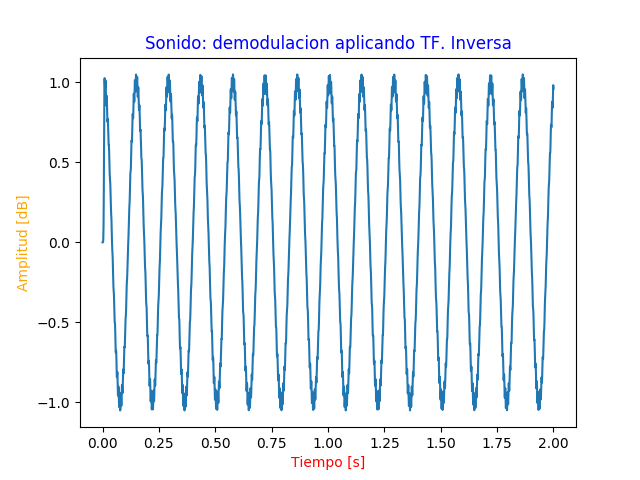
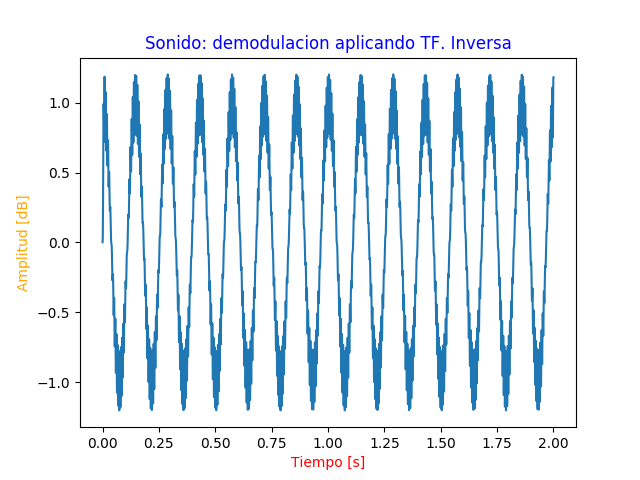
Revert "adding Fm modulation"
This reverts commit aaa57985e61d86c70881ebb56c394ea85a20d3e4.

diff --git a/Models/modulation.py b/Models/modulation.py
@@ -38,10 +38,21 @@ class Modulation:
         modulation.function2 = np.cos(2*np.pi*fc*modulation.time)
         modulation.function3 = modulation.function1 * modulation.function2
 
-        self.demodulatorAMCos(modulation)
-
         graphic.generateGraphics4(modulation.function1, modulation.function2, modulation.function3, modulation.time)
         graphic.generateGraphics5(modulation.function1, modulation.freqSampling, modulation.function2, modulation.freqSampling, modulation.function3, modulation.time)
+
+    def demodulatorAMCos(self, modulation):
+
+        graphic = Graphic()
+        dataCarrier = modulation.function3 * modulation.function2
+        print(dataCarrier)
+        graphic.generateGraphics4(modulation.function1, modulation.function3, dataCarrier,modulation.time)
+        graphic.frequencyGraphic(dataCarrier,modulation.freqSampling,"demodulada",10000,8)
+        audio = Audio(modulation.freqSampling,0,dataCarrier,modulation.time,"demodulada",150,10000,10,modulation.time)
+        newdata, fft = graphic.lowpassFilteredGraphic(audio,150,5)
+        graphic.inverseGraphic(modulation.freqSampling,2*fft,"demodulacion",150,10)
+        #graphic.generateGraphics5(modulation.function1, modulation.freqSampling, modulation.function3,modulation.freqSampling, dataCarrier, modulation.time)
+
 
     def amModulation (self, modulatingSignal, carrierSignalFequency, lowCutoff):
 
@@ -67,28 +78,12 @@ class Modulation:
         graphic.generateGraphics4(modulatingSignal, modulated_signal, demodulated_signal, carrier_signal_time)
 
 
-    def amDemodulation (self, modulatedSignal, lowCutoff, order, ):
-
-        return
-
     def demodulatorAM(self, AM, totalTime):
         timesCarrier = linspace(0, totalTime, 250000 * totalTime)
         dataCarrier = cos(2 * np.pi * 62500 * timesCarrier)
         demoduleAM = AM * dataCarrier
         print(demoduleAM)
         return demoduleAM
-
-    def demodulatorAMCos(self, modulation):
-
-        graphic = Graphic()
-        dataCarrier = modulation.function3 * modulation.function2
-        print(dataCarrier)
-        graphic.generateGraphics4(modulation.function1, modulation.function3, dataCarrier,modulation.time)
-        graphic.frequencyGraphic(dataCarrier,modulation.freqSampling,"demodulada",10000,8)
-        audio = Audio(modulation.freqSampling,0,dataCarrier,modulation.time,"demodulada",150,10000,10,modulation.time)
-        newdata, fft = graphic.lowpassFilteredGraphic(audio,150,5)
-        graphic.inverseGraphic(modulation.freqSampling,2*fft,"demodulacion",150,10)
-        #graphic.generateGraphics5(modulation.function1, modulation.freqSampling, modulation.function3,modulation.freqSampling, dataCarrier, modulation.time)
 
 
     def fmModulation (self, f, fc, k):
@@ -103,18 +98,9 @@ class Modulation:
 
         phase = k * (integrate.cumtrapz(modulating_signal, modulation.time, initial=0))
         print(phase)
+
         modulated_signal = np.cos( (2 * np.pi * fc * modulation.time) + phase)
-
-        graphic.generateGraphics4(modulating_signal, modulating_signal, modulated_signal, modulation.time)
-        graphic.generateGraphics5(modulating_signal, modulation.freqSampling, modulating_signal,
-                                  modulation.freqSampling, modulated_signal, modulation.time)
-
-        plt.subplot(311)
-        plt.plot(modulation.time, modulating_signal, linewidth=1)
-        plt.title("senal")
-        plt.subplot(312)
-        plt.plot(modulation.time, modulated_signal, linewidth = 1)
-        plt.title("Resultado")
+        plt.plot(modulation.time, modulated_signal, linewidth = 2)
         plt.show()
 
 

diff --git a/Models/graphic.py b/Models/graphic.py
@@ -30,7 +30,7 @@ class Graphic:
         plt.plot(xdata, ydata)#, "*-")
         plt.savefig( os.getcwd() + "/Salida/" + title + "_" + str(low_cutoff) + "_" + str(order) + ".png")
         print("Aca")
-        #plt.show()
+        plt.show()
 
 
     #//////////////////////////////////////////////////////////////////////////////////////////////////////////////////////////////////////////////////////////////////////////
@@ -62,7 +62,7 @@ class Graphic:
         # Funcion que retorna los resultados aplicando fourier y crea una matriz con el resultado
         fftFrequency = np.fft.fftfreq(sample_length, 1 / samplingRate)
         self.makeGraphic("Sonido: " + audioName + " aplicando T.Fourier", "Frecuencia [Hz]", fftFrequency, "Amplitud [dB]", abs(new_data),low_cutoff,order)
-        #plt.show()
+        plt.show()
         return new_data, fft(data)
 
     # /////////////////////////////////////////////////////////////////////////////////////////////////////////////////////////////////////////////////////////////////////////

diff --git a/Avance1.py b/Avance1.py
@@ -131,6 +131,7 @@ def signalAnaysisMenu ():
 def digitalCodingAndModulation():
 
     choice = '0'
+    modulation = Modulation(0, 0)
 
     while choice != '-1':
         print("\n")
@@ -146,7 +147,6 @@ def digitalCodingAndModulation():
 
         if choice == "1":
             print("Realizando modulacion AM\n")
-            modulation = Modulation(0,0)
             modulation.amModulationCos(7, 100)
             input("Presiona Enter para continuar")
 
@@ -156,9 +156,7 @@ def digitalCodingAndModulation():
 
         elif choice == "3":
             print("Realizando modulacion FM")
-            modulation = Modulation(0, 0)
-            modulation.fmModulation(7, 100, 200)
-
+            modulation.fmModulation(7, 100, 50)
             input("Presiona Enter para continuar")
 
         elif choice == "4":

diff --git a/Models/audio.py b/Models/audio.py
@@ -4,14 +4,14 @@ class Audio:
 
 ## - ATTRIBUTES - ##
     sampling_rate = 0
-    data_array = 0
+    data_array = []
     bandpass_data = 0
     duration = 0
     time = 0
     dimension = 0
     audio_name = ""
     information_numpy_fourier = []
-    filter = 0
+    filter = Filter(0, 0, 0)
 
 ## - FUNCTIONS - ##
 
